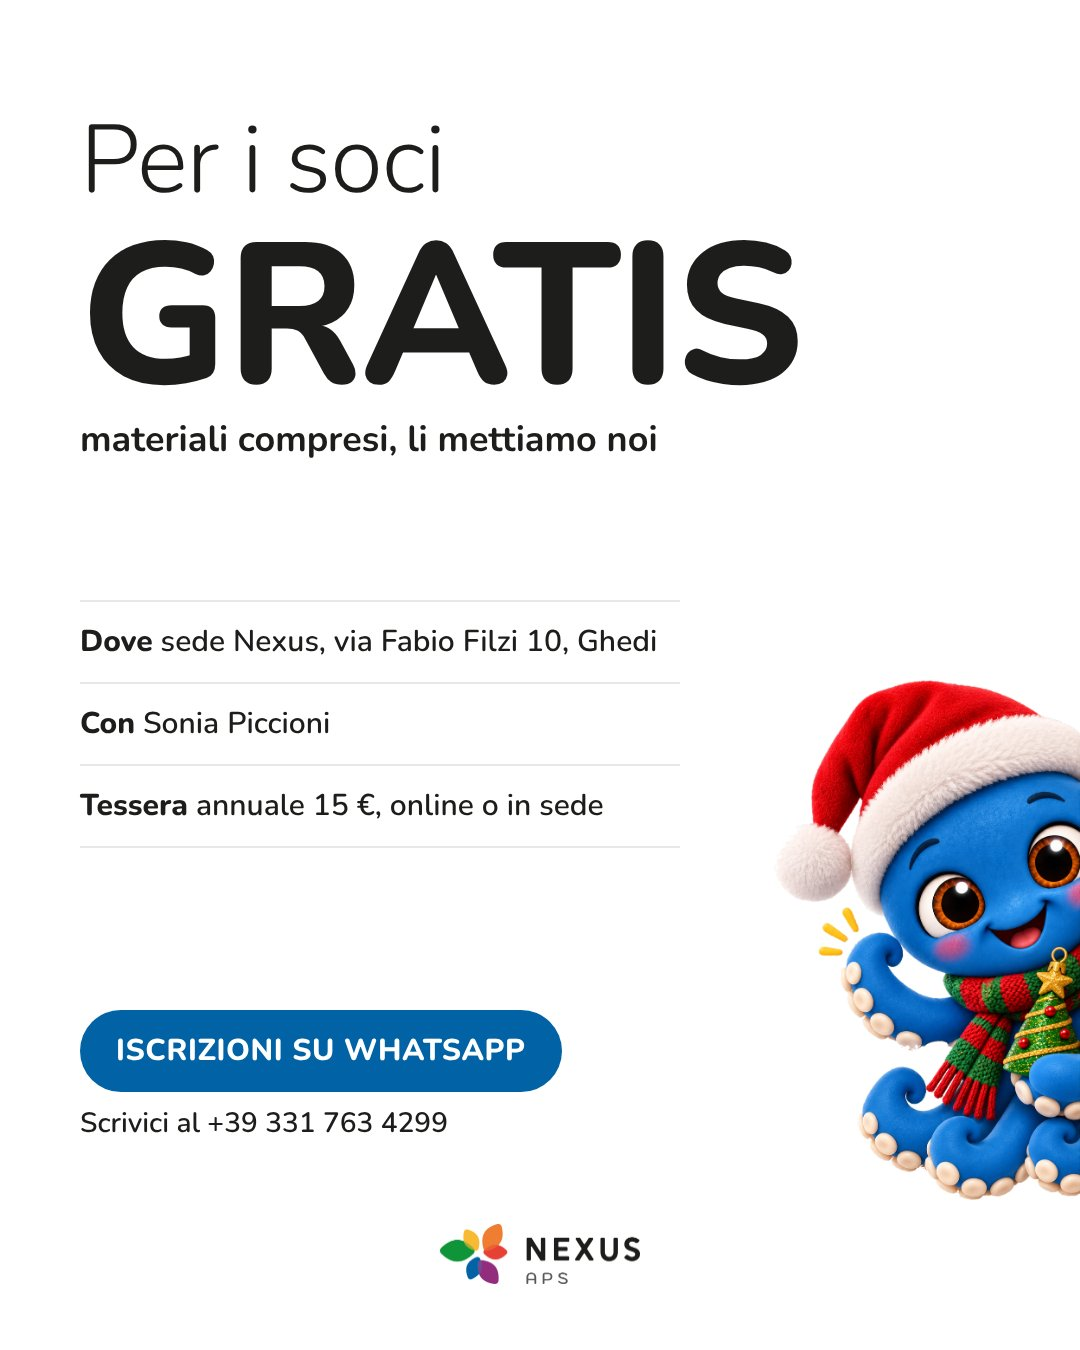
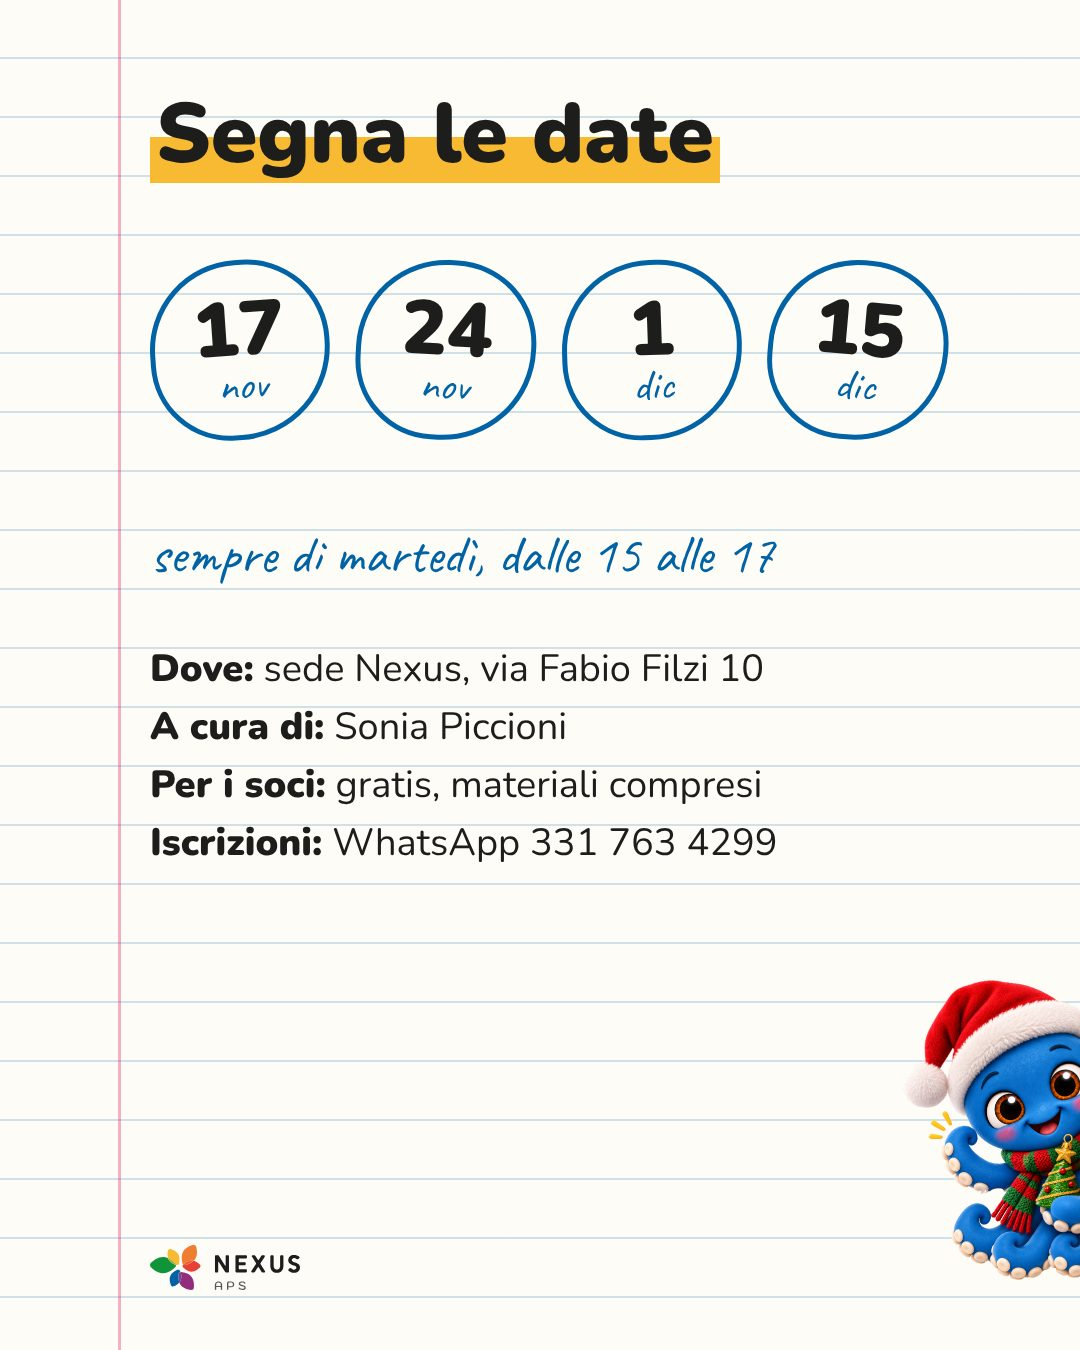
Natale: immagini social nello stile Quaderno e promemoria «mancano 3 giorni» (WhatsApp e storia, sab 14/11)
Claude-Session: https://claude.ai/code/session_01RE5ewqrLahPzZRPKk1gLcA

diff --git a/index.html b/index.html
@@ -643,7 +643,7 @@ Sette giorni in aereo, 2.495 € tutto incluso. Iscrizioni entro il 15 novembre:
 ${TAG} #Dresda #Praga #SvizzeraSassone #ArkeI5sensi #ViaggiareConISensi`},
  {id:'storia',invio:['2026-11-12'],canale:'storia',label:'Storia Instagram',inv:'Gio 12 novembre',img:'img/storia-dresda.jpg',fino:'2026-11-15',nota:'Aggiungi l\'adesivo «Link» in basso con il testo ISCRIVITI, e l\'adesivo «Conto alla rovescia»: «Iscrizioni Dresda e Praga», 15 novembre. Il link del modulo è qui sotto.',t:`https://forms.gle/r8hEiu6XuN5mHhUL8`}]},
 
-{id:'natale',titolo:'Il Natale è nell\'aria · laboratorio di decorazioni',quando:'Mar 17 nov – 15 dic',col:'var(--corsi)',stato:[{t:'Gratuito per i soci, iscrizioni su WhatsApp',tipo:'aperte'}],
+{id:'natale',titolo:'Il Natale è nell\'aria · laboratorio di decorazioni',quando:'Mar 17 nov – 15 dic',col:'var(--corsi)',stile:'quaderno',stato:[{t:'Gratuito per i soci, iscrizioni su WhatsApp',tipo:'aperte'}],
  url:SITO+'2026/11/12/laboratorio-natale-2026/',
  msgs:[
  {id:'wa',invio:['2026-11-13'],canale:'wa',label:'Lancio del laboratorio',inv:'Subito, all\'uscita dell\'articolo',img:'img/wa-natale.jpg',fino:'2026-12-14',t:
@@ -654,6 +654,14 @@ Laboratorio di decorazioni natalizie con Sonia Piccioni, nella sede Nexus
 ✨ Gratuito per i soci, materiali compresi
 ✍ Iscrizioni: scrivici qui su WhatsApp
 👉 ${SITO}2026/11/12/laboratorio-natale-2026/`},
+ {id:'mancano3',invio:['2026-11-14'],canale:'wa',label:'Mancano 3 giorni',inv:'Sabato 14 novembre',img:'img/wa-natale-promemoria.jpg',dal:'2026-11-14',fino:'2026-11-16',t:
+`*🎄 Mancano 3 giorni!*
+_Il Natale è nell'aria_: martedì 17 novembre parte il laboratorio di decorazioni con Sonia Piccioni
+📅 4 martedì · ore 15–17 · sede Nexus, via Fabio Filzi 10
+✨ Gratuito per i soci, materiali compresi
+✍ Per iscriverti scrivici qui su WhatsApp
+👉 ${SITO}2026/11/12/laboratorio-natale-2026/`},
+ {id:'storia-mancano3',invio:['2026-11-14'],canale:'storia',label:'Storia · mancano 3 giorni',inv:'Sabato 14 novembre',img:'img/storia-natale-promemoria.jpg',dal:'2026-11-14',fino:'2026-11-16',nota:'Aggiungi l\'adesivo «Link» nello spazio libero tra la scritta a mano e il logo. Il link è qui sotto.',t:`${SITO}2026/11/12/laboratorio-natale-2026/`},
  {id:'domani',invio:['2026-11-16','2026-11-23','2026-11-30','2026-12-14'],canale:'wa',label:'Promemoria: domani c\'è il laboratorio',inv:'Il lunedì prima di ogni incontro',img:'img/wa-natale.jpg',fino:'2026-12-14',t:
 `*🎄 Il Natale è nell'aria* · domani!
 Martedì dalle 15 alle 17 nella sede Nexus, via Fabio Filzi 10: si creano le decorazioni di Natale con Sonia Piccioni.
@@ -681,7 +689,7 @@ Quattro pomeriggi per creare con le tue mani le decorazioni di Natale, con Sonia
 ✍ Iscrizioni su WhatsApp · link in bio
 
 ${TAG} #Natale #LaboratorioCreativo #DecorazioniNatalizie #FaiDaTe`},
- {id:'storia',invio:['2026-11-13','2026-11-16'],canale:'storia',label:'Storia Instagram',inv:'All\'uscita e il giorno prima del primo incontro',img:'img/storia-natale.jpg',fino:'2026-12-14',nota:'Aggiungi l\'adesivo «Link» sotto «Scrivici su WhatsApp», nella zona scura in basso. Il link è qui sotto.',t:`${SITO}2026/11/12/laboratorio-natale-2026/`}]},
+ {id:'storia',invio:['2026-11-13','2026-11-16'],canale:'storia',label:'Storia Instagram',inv:'All\'uscita e il giorno prima del primo incontro',img:'img/storia-natale.jpg',fino:'2026-12-14',nota:'Aggiungi l\'adesivo «Link» accanto al tasto blu «Scrivici su WhatsApp». Il link è qui sotto.',t:`${SITO}2026/11/12/laboratorio-natale-2026/`}]},
 
 {id:'attivamente',titolo:'Attiva-mente: il piacere di stare insieme',quando:'Ogni martedì',col:'var(--corsi)',stato:[{t:'Gratuito per i soci, ogni martedì 15–17',tipo:'info'}],
  url:SITO+'2026/09/28/riparte-attiva-mente-ottobre-2026/',
